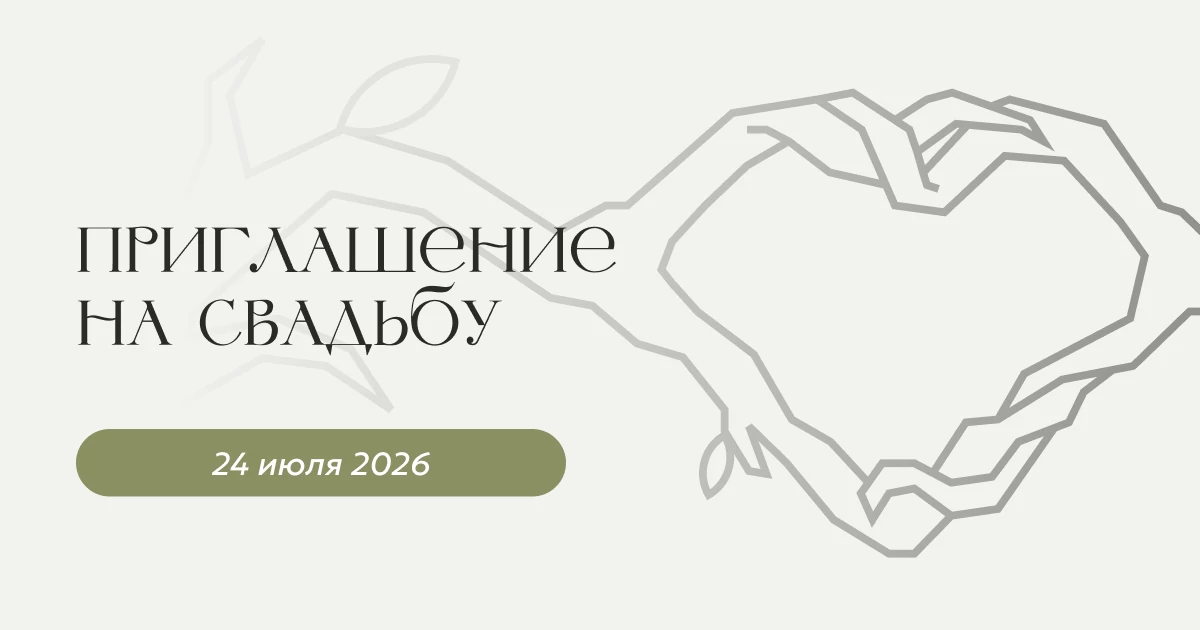
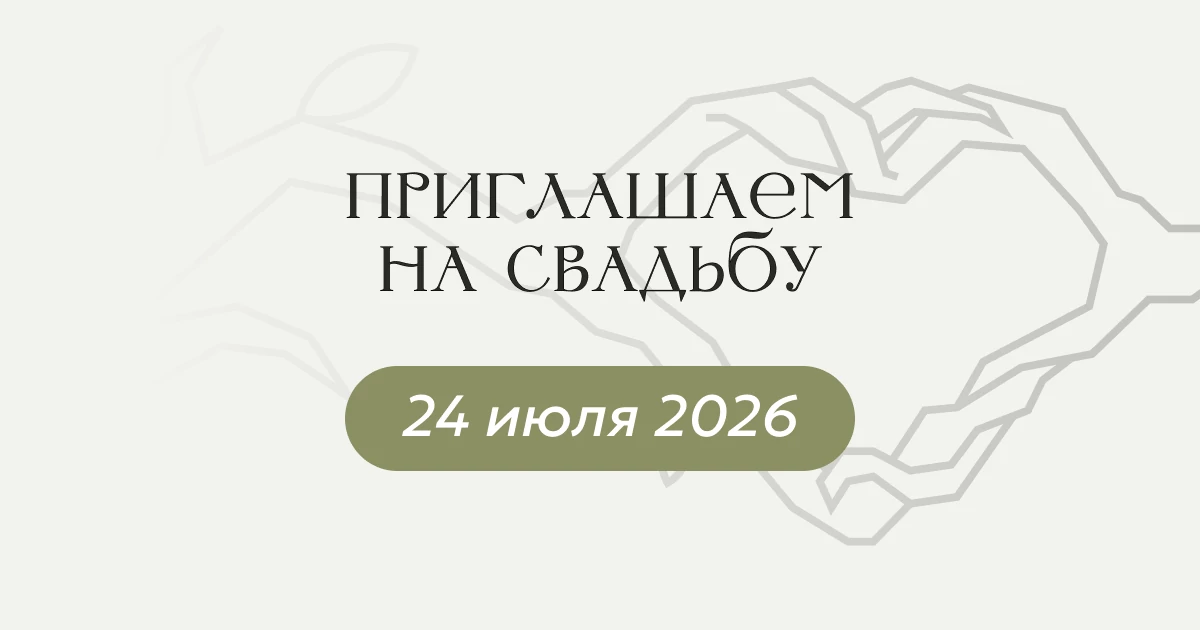
changed og

Changed region(s): [[0.0617, 0.1206, 1.0, 0.9048]]

diff --git a/invitation/index.html b/invitation/index.html
@@ -14,7 +14,7 @@
     <meta property="og:title" content="Никита и Мария — приглашение" />
     <meta property="og:description" content="Приглашаем вас на нашу свадьбу" />
     <meta property="og:image" content="https://androsenko.com/invitation/assets/images/invite.webp" />
-    <meta property="og:url" content="https://androsenko.com/invitation/" />
+    <meta property="og:url" content="https://androsenko.com/invitation" />
     <meta property="og:type" content="website" />
 
     <link rel="stylesheet" href="css/fonts.css" />
